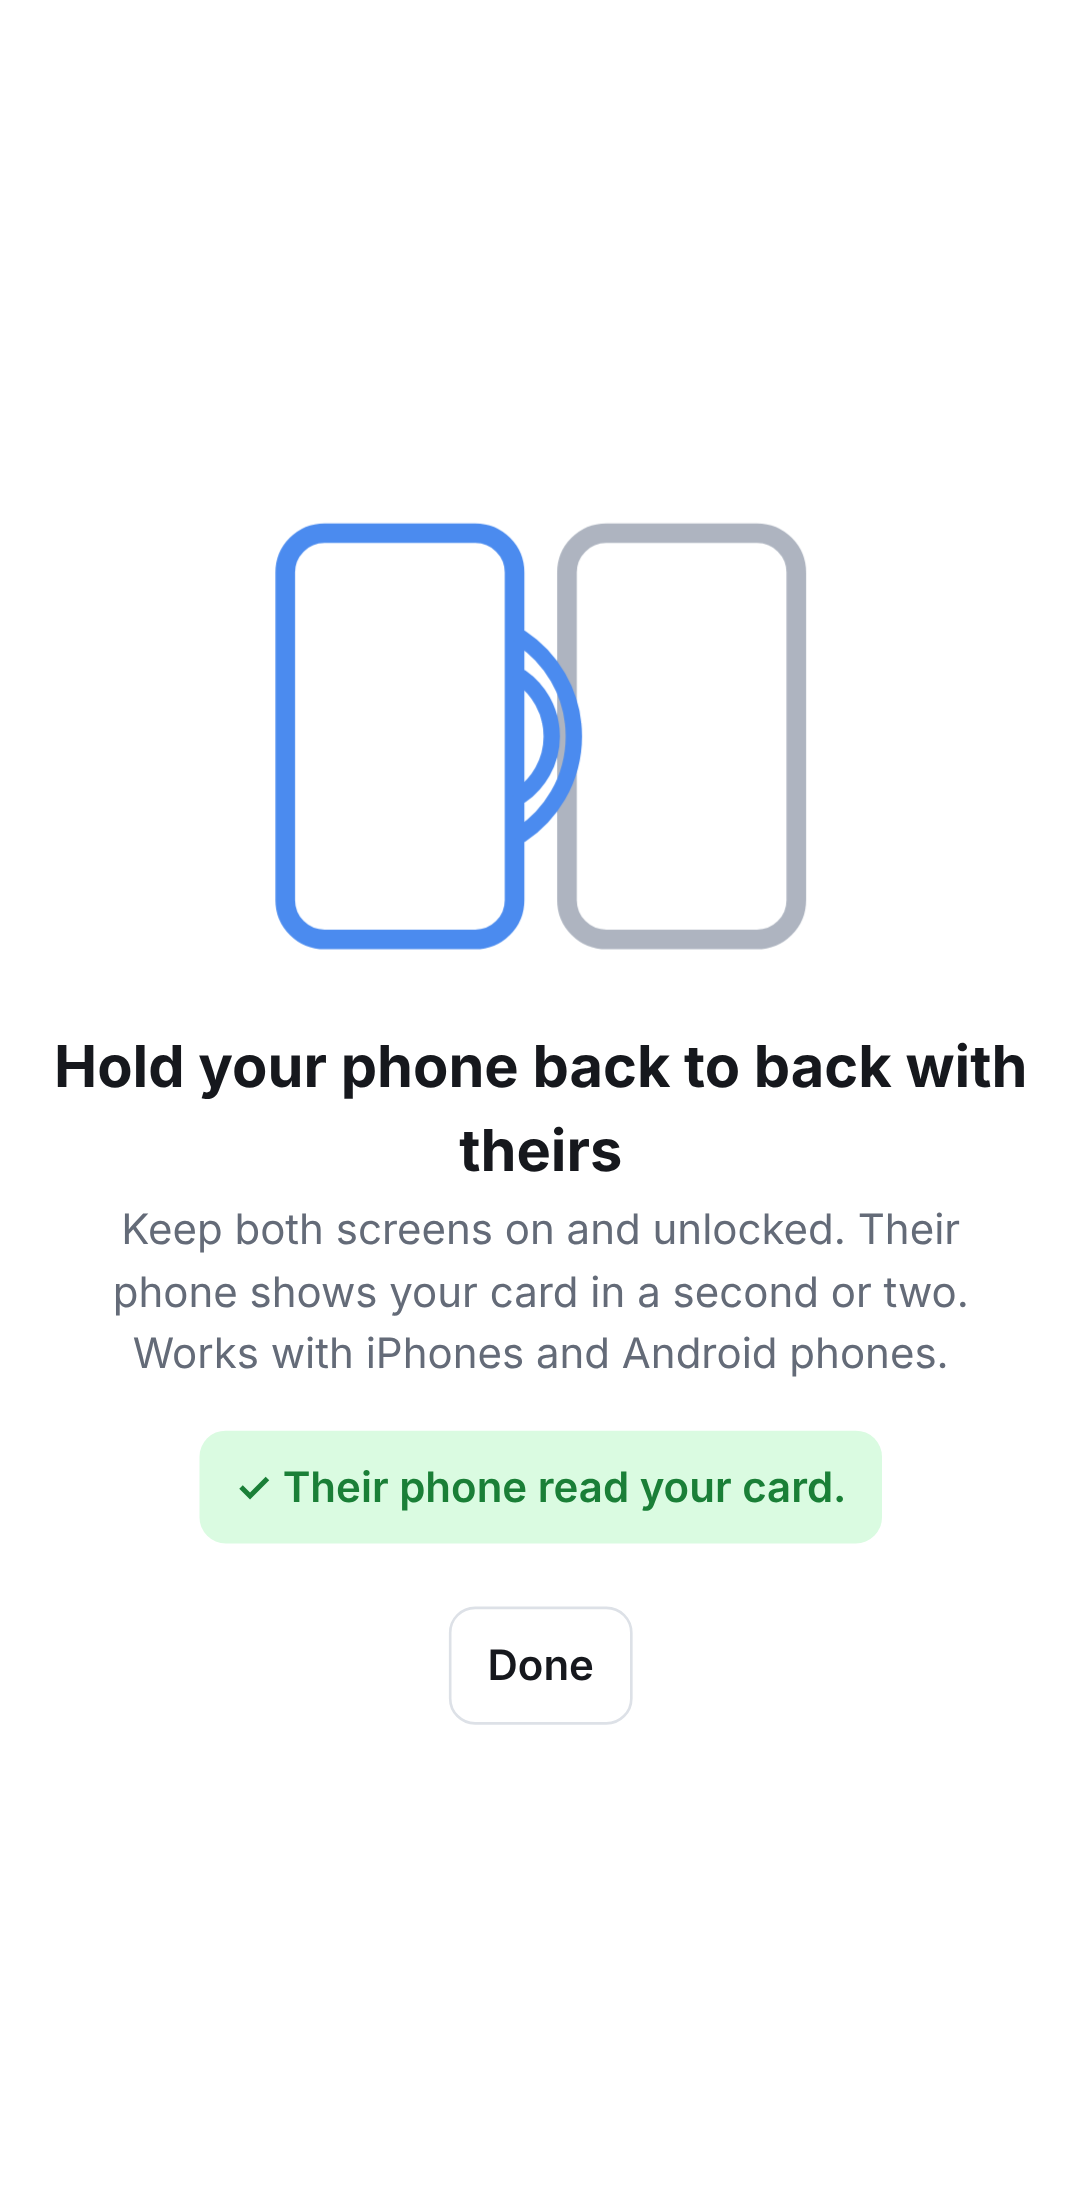
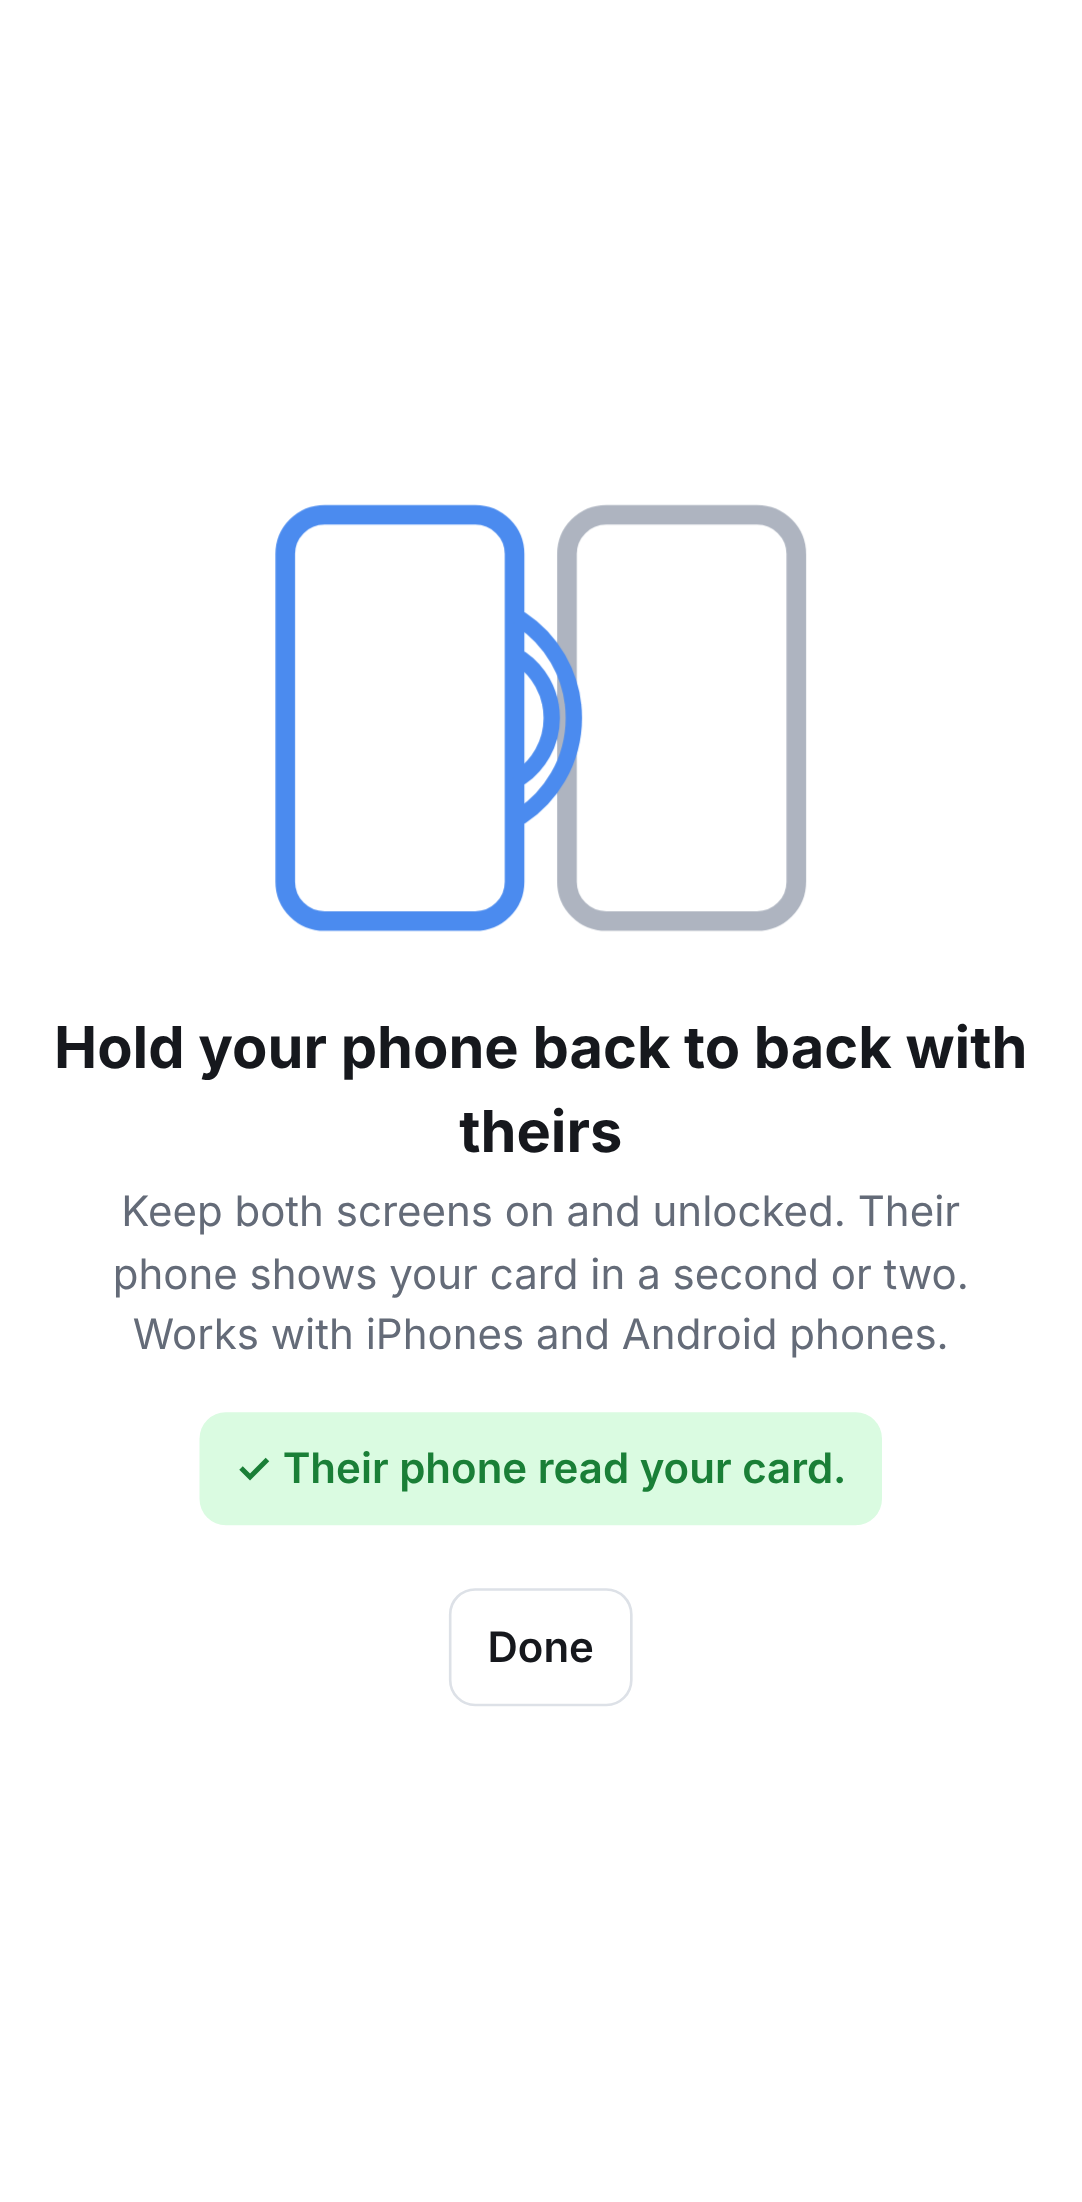
Tap mode: stop this phone reading NFC again; prefill web address
In a test with two Android phones, the sharing phone read the other phone
instead of being read. Tap mode turns off this phone's polling again: with
setDiscoveryTechnology on Android 15+, and reader mode with no technology
flags on older versions (which keeps card emulation routed to the app).

The app now fills in its website address so taps send a link, adds the
missing trailing slash to addresses, and shows its version number.

Claude-Session: https://claude.ai/code/session_01ChvCX1TJEbsDiLpY4wEDy7

diff --git a/web/index.html b/web/index.html
@@ -98,6 +98,7 @@
   @keyframes pulse { 50% { transform: scale(1.04); opacity: .8; } }
   @media (prefers-reduced-motion: reduce) { .show .tapart { animation: none; } }
   .show p { max-width: 34ch; }
+  .show .ver { margin-top: 14px; font-size: 12px; }
   .show .tapstatus { margin-top: 18px; padding: 10px 14px; border-radius: 10px; background: #f4f5f7; color: #16181d; font-weight: 600; }
   .show .tapstatus.ok { background: #dafbe1; color: #1a7f37; }
   .show .tapstatus.warn { background: #fff8c5; color: #7d4e00; }
@@ -167,6 +168,7 @@
           <input id="pub" type="url" inputmode="url" placeholder="yourname.github.io/tapcard">
           <p class="note">Where your Tap Card website is hosted. With it, a tap opens your card on iPhones too. Without it, a tap sends your contact straight to Android phones only, and the QR code holds your details directly.</p>
         </div>
+        <p class="note" id="appVer" hidden></p>
         <p class="note" id="hostNote" hidden>This page is opened from a local file, so the link only works on this device. Put it on a website (for example GitHub Pages) for the link to work on other phones.</p>
       </section>
 
@@ -195,6 +197,7 @@
   <p id="tapHint">Keep both screens on. Their phone shows your card in a second or two.</p>
   <p class="tapstatus" id="tapStatus" role="status"></p>
   <button type="button" id="tapClose">Done</button>
+  <p class="ver" id="tapVer"></p>
 </div>
 
 <script src="qrcode.js"></script>
@@ -238,6 +241,8 @@
       let u = ""; try { u = (localStorage.getItem(PUB_KEY) || "").trim(); } catch {}
       if (!u) return null;
       u = (/^https?:\/\//i.test(u) ? u : "https://" + u).split("#")[0];
+      // "site.io/tapcard" -> "site.io/tapcard/": avoids a redirect on every tap
+      if (!/\/$/.test(u) && !/\.[a-z0-9]+$/i.test(u.replace(/^https?:\/\/[^/]+/i, ""))) u += "/";
       return u;
     }
     return location.protocol === "file:" ? null : location.href.split("#")[0];
@@ -451,7 +456,14 @@
     $("nfcBtn").hidden = $("qrBtn").hidden = true; // tag writing and file downloads are for the website
     $("vcfBtn").textContent = "Save to my contacts";
     $("pubBox").hidden = false;
-    try { $("pub").value = localStorage.getItem(PUB_KEY) || ""; } catch {}
+    // Fill in this build's website the first time, so taps send a link that iPhones open too.
+    let savedPub = null; try { savedPub = localStorage.getItem(PUB_KEY); } catch {}
+    if (savedPub == null && native.defaultWebAddress) {
+      savedPub = native.defaultWebAddress(); try { localStorage.setItem(PUB_KEY, savedPub); } catch {}
+    }
+    $("pub").value = savedPub || "";
+    const ver = native.appVersion ? native.appVersion() : "";
+    if (ver) { $("tapVer").textContent = "Tap Card " + ver; $("appVer").textContent = "Tap Card for Android " + ver; $("appVer").hidden = false; }
     $("pub").addEventListener("input", () => { try { localStorage.setItem(PUB_KEY, $("pub").value); } catch {} update(); });
     if (native.hceSupported()) {
       $("tapBtn").hidden = false;

diff --git a/android/app/src/main/java/app/tapcard/MainActivity.kt b/android/app/src/main/java/app/tapcard/MainActivity.kt
@@ -89,12 +89,11 @@ class MainActivity : Activity() {
     }
 
     /**
-     * While tap mode is on, Android sends taps to Tap Card first, even if another app
-     * also answers NFC tag reads, and the screen stays on.
-     *
-     * Don't call enableReaderMode() here: Android stops routing taps to card-emulation
-     * services (CardHceService) while any app has reader mode on, so the phone could no
-     * longer be read as a tag.
+     * While tap mode is on:
+     *  - Android sends taps to Tap Card first, even if another app also answers NFC tag reads;
+     *  - this phone stops *reading* NFC (polling) and only *answers* as a tag. Otherwise, with two
+     *    Android phones, both try to read each other and this phone may read theirs instead.
+     *  - the screen stays on.
      */
     private fun startListening() {
         window.addFlags(WindowManager.LayoutParams.FLAG_KEEP_SCREEN_ON)
@@ -103,11 +102,26 @@ class MainActivity : Activity() {
             CardEmulation.getInstance(adapter)
                 .setPreferredService(this, ComponentName(this, CardHceService::class.java))
         }
+        if (Build.VERSION.SDK_INT >= 35) {
+            // Android 15+: the official switch for "don't read tags, keep answering as one".
+            runCatching { adapter.setDiscoveryTechnology(this, NfcAdapter.FLAG_READER_DISABLE, NfcAdapter.FLAG_LISTEN_KEEP) }
+        } else {
+            // Older Android: reader mode with flags set but no technology flags turns off polling
+            // while keeping card emulation routed to this app.
+            runCatching {
+                adapter.enableReaderMode(
+                    this, { /* never called: no technologies are polled */ },
+                    NfcAdapter.FLAG_READER_SKIP_NDEF_CHECK or NfcAdapter.FLAG_READER_NO_PLATFORM_SOUNDS, null
+                )
+            }
+        }
     }
 
     private fun stopListening() {
         window.clearFlags(WindowManager.LayoutParams.FLAG_KEEP_SCREEN_ON)
         val adapter = nfc ?: return
+        if (Build.VERSION.SDK_INT >= 35) runCatching { adapter.resetDiscoveryTechnology(this) }
+        else runCatching { adapter.disableReaderMode(this) }
         runCatching { CardEmulation.getInstance(adapter).unsetPreferredService(this) }
     }
 
@@ -165,6 +179,14 @@ class MainActivity : Activity() {
                 .put("nfcOn", nfc?.isEnabled == true)
                 .toString()
         }
+
+        @JavascriptInterface
+        fun appVersion(): String =
+            runCatching { packageManager.getPackageInfo(packageName, 0).versionName }.getOrNull() ?: ""
+
+        /** The Tap Card website for this build, used until the person sets their own. */
+        @JavascriptInterface
+        fun defaultWebAddress(): String = getString(R.string.default_web_address)
 
         @JavascriptInterface
         fun enterTapMode() = runOnUiThread { tapMode = true; startListening() }
